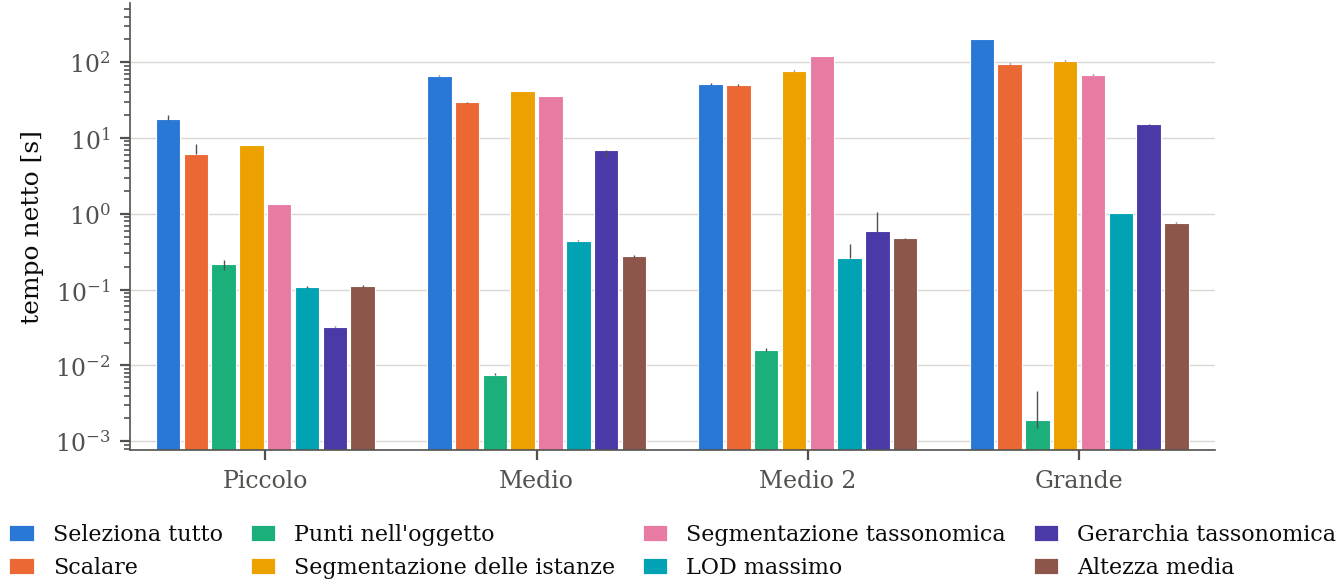
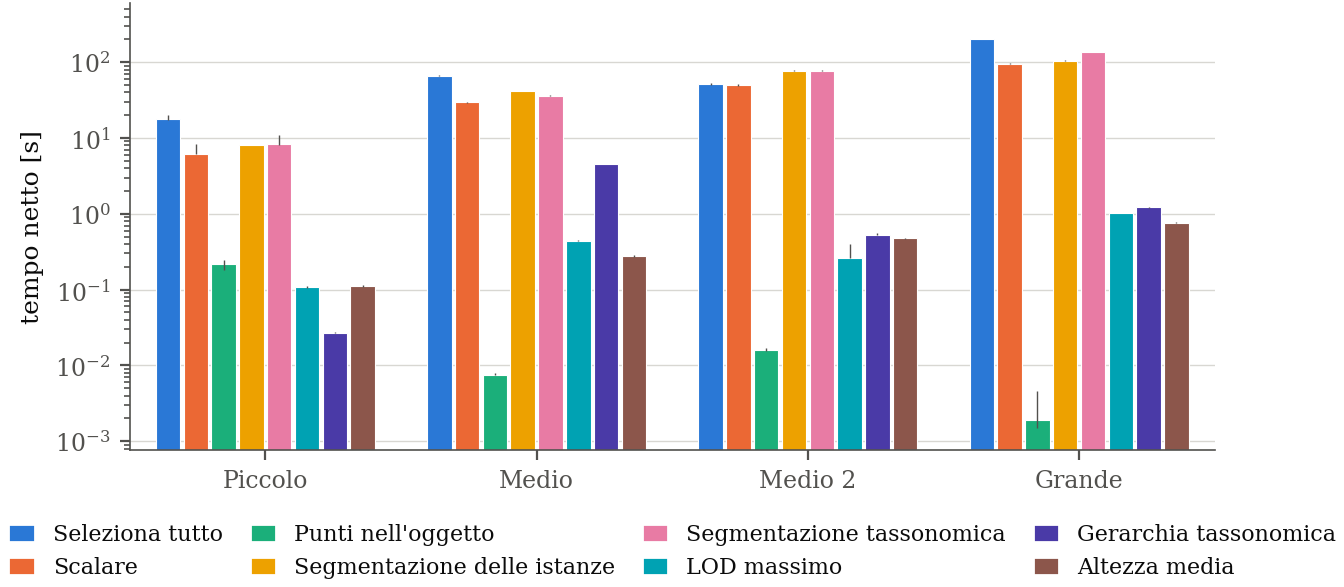
Try to fix virtuoso tax hierarcy and max lod

diff --git a/bench/queries/builtin.py b/bench/queries/builtin.py
@@ -100,6 +100,18 @@ WHERE {{
 ))
 
 # 5. chained segmentation — most specific taxonomy class of each point's object.
+# Virtuoso variant: it answers the portable text with **0 rows** (HTTP 200, no warning) on
+# every real dataset. The trigger is narrow — it returns the right answer for `?obj ?x`
+# (104 rows on ytu3d) and only collapses once the million-row `?s` is projected alongside the
+# transitive path. Nothing else moves it: reordering the pattern, `+` instead of `*`, the
+# UNION-with-zero-length form OpenLink documents for `*`, OPTION (TRANSITIVE), FILTER EXISTS,
+# double negation, MINUS, an inverse path, every `sql:select-option` plan hint, parallelism
+# off, FROM vs GRAPH — all still 0. Wrapping the guard in a subselect *with ORDER BY* does
+# fix it (without the ORDER BY it is still 0), so the ordering is what forces Virtuoso to
+# materialise the transitive derived table before the big join.
+# The two texts are equivalent — checked row-by-row, not just by count, on the Urban
+# taxonomy and on the Heritage one with every class instantiated — and Virtuoso then returns
+# 1 065 720 on ytu3d, matching the other nine engines.
 # No `?s a base:Point` guard: Constitutes is declared Point -> Macro_Entity, so ?s is a point
 # by construction. The guard would also be unportable — the legacy ontologies call the class
 # Points, and the Urban graph never materialised it on its points at all (0 such triples).
@@ -119,6 +131,18 @@ WHERE {{
     }}
 }}
 """),
+    engine_templates={"virtuoso": _q("""
+SELECT DISTINCT ?s ?x
+WHERE {{
+    ?s base:Constitutes ?obj .
+    ?obj a ?x .
+    {{ SELECT DISTINCT ?x WHERE {{ ?x rdfs:subClassOf* base:{macro_entity} }} ORDER BY ?x }}
+    FILTER NOT EXISTS {{
+        ?sub rdfs:subClassOf ?x .
+        ?point rdf:type ?sub .
+    }}
+}}
+""")},
 ))
 
 # 6. max LOD — largest number of points constituting a single object.
@@ -141,6 +165,17 @@ WHERE {{
 ))
 
 # 7. taxonomical hierarchy — class -> ancestor chain up to the taxonomy root.
+# Virtuoso variant: a second, different path bug — chaining an arbitrary-length path onto the
+# output of the first (`?c rdfs:subClassOf* ?sup` then `?sup rdfs:subClassOf+ root`) cuts the
+# answer to 15 of 66 rows on ytu3d, and wrapping the ?sup2 path in OPTIONAL cuts it to 1. The
+# ORDER BY trick used for `chained_segmentation` does not help here.
+# The variant drops both guards, which are no-ops on this data rather than a change of
+# meaning: ?c is already under the root (the subselect says so) and the root has no
+# superclass in any of the three ontologies, so `?sup rdfs:subClassOf+ root` only ever
+# excludes the root itself — which `FILTER (?sup != root)` does directly — and the same
+# argument makes ?sup2's guard redundant. The OPTIONAL never matched nothing either, since
+# `rdfs:subClassOf*` always has its zero-length solution. Verified row-identical on both
+# taxonomies; Virtuoso then returns 66 on ytu3d.
 register(Query(
     name="taxonomical_hierarchy",
     kind="select",
@@ -166,6 +201,24 @@ WHERE {{
 GROUP BY ?c ?sup
 ORDER BY ?c ?depth ?sup
 """),
+    engine_templates={"virtuoso": _q("""
+SELECT ?c ?sup (COUNT(DISTINCT ?sup2) AS ?depth)
+WHERE {{
+  {{
+    SELECT DISTINCT ?c
+    WHERE {{
+      ?point base:Constitutes ?obj .
+      ?obj a ?c .
+      ?c rdfs:subClassOf* base:{macro_entity} .
+    }}
+  }}
+  ?c rdfs:subClassOf* ?sup .
+  FILTER (?sup != base:{macro_entity})
+  ?sup rdfs:subClassOf* ?sup2 .
+}}
+GROUP BY ?c ?sup
+ORDER BY ?c ?depth ?sup
+""")},
 ))
 
 # 8. average height of the points: a flat aggregate over the whole cloud, one row out.

diff --git a/bench/queries/__init__.py b/bench/queries/__init__.py
@@ -9,6 +9,11 @@ Add a query by decorating a module-level ``Query`` with :func:`register` in
 ``builtin.py`` (or at runtime). ``applies_to`` lets a query opt out of datasets whose
 ontology lacks the predicates it needs (e.g. the LDBC-SPB query only runs on an SPB
 dataset).
+
+``engine_templates`` holds a per-engine variant of the template, for the rare engine that
+answers the portable text *wrongly*. It is a last resort — a variant means that engine is no
+longer running the same query as the others, which is why each one carries a comment saying
+what it works around and what proves the two texts are equivalent.
 """
 
 from __future__ import annotations
@@ -28,9 +33,12 @@ class Query:
     kind: Kind = "select"
     description: str = ""
     applies_to: Callable[[Dataset], bool] = field(default=lambda ds: True, compare=False)
+    # engine name -> template that engine gets instead of `template` (see module docstring)
+    engine_templates: dict[str, str] = field(default_factory=dict, compare=False)
 
-    def render(self, ds: Dataset) -> str:
-        return self.template.format(namespace=ds.namespace, **ds.query_params).strip() + "\n"
+    def render(self, ds: Dataset, engine: str | None = None) -> str:
+        template = self.engine_templates.get(engine, self.template) if engine else self.template
+        return template.format(namespace=ds.namespace, **ds.query_params).strip() + "\n"
 
 
 _REGISTRY: dict[str, Query] = {}

diff --git a/bench/runner.py b/bench/runner.py
@@ -223,7 +223,7 @@ class BenchRunner:
             return
 
         ds = datasets_mod.get(dataset_name)
-        sparql = query.render(ds)
+        sparql = query.render(ds, engine_name)
         self.reporter.query_start(engine_name, dataset_name, query.name, plan.repetitions)
 
         # warmup (always re-run: the server was just started, cache is cold)
